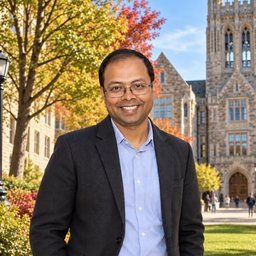
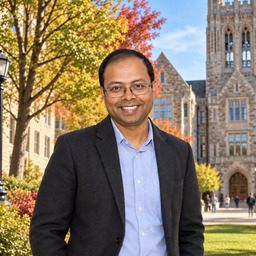
Headshot at native crop resolution, higher JPEG quality

diff --git a/index.html b/index.html
@@ -10,7 +10,7 @@ description: "Pallab Ghosh is an Associate Professor of Economics at the Univers
 {% assign npubs = published | size | plus: commentary.size %}
 <section class="hero">
   <div class="hero-photo">
-    <img src="{{ site.author.photo | relative_url }}?v=20261011" alt="Portrait of Pallab Ghosh" width="800" height="800" fetchpriority="high">
+    <img src="{{ site.author.photo | relative_url }}?v=20261011b" alt="Portrait of Pallab Ghosh" width="900" height="900" fetchpriority="high">
   </div>
   <div class="hero-text">
     <h1>{{ site.author.name }}</h1>
